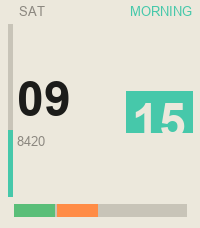
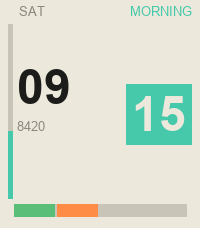
Prevent staggered layout elements from overlapping.
Clamp hours, minute chip, always-on, and detail card into non-colliding boxes and refresh store screenshots.

diff --git a/src/embeddedjs/main.js b/src/embeddedjs/main.js
@@ -587,8 +587,8 @@ function railGeometry() {
   const w = contentWidth();
   const h = contentHeight();
   const railH = 12;
-  const margin = IS_ROUND ? 36 : 14;
-  const y = h - railH - (IS_ROUND ? 24 : 12);
+  const margin = IS_ROUND ? 44 : 14;
+  const y = h - railH - (IS_ROUND ? 32 : 12);
   return { x: margin, y, width: w - margin * 2, height: railH };
 }
 
@@ -617,6 +617,17 @@ function livingAccentRGB(now) {
 
 function momentWord(now) {
   const hr = now.getHours();
+  /* Shorter labels on round so they stay inside the circular mask */
+  if (IS_ROUND) {
+    if (hr < 5) return "LATE";
+    if (hr < 7) return "DAWN";
+    if (hr < 11) return "AM";
+    if (hr < 13) return "NOON";
+    if (hr < 17) return "PM";
+    if (hr < 19) return "GOLD";
+    if (hr < 22) return "EVE";
+    return "NIGHT";
+  }
   if (hr < 5) return "LATE";
   if (hr < 7) return "DAWN";
   if (hr < 11) return "MORNING";
@@ -625,6 +636,10 @@ function momentWord(now) {
   if (hr < 19) return "GOLDEN";
   if (hr < 22) return "EVENING";
   return "NIGHT";
+}
+
+function detailCardHeight() {
+  return detailFont.height + smallFont.height + 16;
 }
 
 function drawPoster(now, withSeconds) {
@@ -636,27 +651,39 @@ function drawPoster(now, withSeconds) {
   const moment = momentWord(now);
   const dayPct = (now.getHours() * 60 + now.getMinutes()) / (24 * 60);
   const g = railGeometry();
-  const pad = IS_ROUND ? 24 : 8;
+  const pad = IS_ROUND ? 40 : 8;
+  const gap = 10;
 
-  /* Day stripe */
+  /* Day stripe — stop above the rail */
   const stripeW = IS_ROUND ? 4 : 5;
-  const stripeTop = IS_ROUND ? 32 : 24;
-  const stripeBot = g.y - 8;
-  const stripeSpan = stripeBot - stripeTop;
+  const stripeTop = IS_ROUND ? 56 : 24;
+  const stripeBot = g.y - 6;
+  const stripeSpan = Math.max(8, stripeBot - stripeTop);
   const stripeH = Math.max(16, (stripeSpan * dayPct) | 0);
   render.fillRectangle(railBg, pad, stripeTop, stripeW, stripeSpan);
   render.fillRectangle(live, pad, stripeBot - stripeH, stripeW, stripeH);
 
-  /* Compact header */
-  const headerY = IS_ROUND ? 18 : 4;
+  /* Header — inset on round so text clears the circular mask */
+  const headerY = IS_ROUND ? 44 : 4;
   const day = DAYS[now.getDay()].toUpperCase();
-  render.drawText(day, smallFont, dim, pad + stripeW + 6, headerY);
+  const dayX = pad + stripeW + 6;
+  const dayW = render.getTextWidth(day, smallFont);
   const momW = render.getTextWidth(moment, smallFont);
-  render.drawText(moment, smallFont, live, w - pad - momW, headerY);
+  let momX = w - pad - momW;
+  let momY = headerY;
+  if (momX < dayX + dayW + gap) {
+    /* Too tight for one row: put moment on the next line, right-aligned */
+    momX = w - pad - momW;
+    momY = headerY + smallFont.height + 2;
+  }
+  render.drawText(day, smallFont, dim, dayX, headerY);
+  render.drawText(moment, smallFont, live, momX, momY);
 
   /*
-   * Staggered time: big hours left, minute chip dropped right.
-   * Sized to fill the band between header and rail without a full-bleed plate.
+   * Staggered time with hard non-overlap:
+   * 1) Prefer chip to the right of hours with a clear gap.
+   * 2) If width is tight, place chip fully below hours (still right-aligned).
+   * 3) Always-on sits under the lower of the two, left-aligned, clear of the chip.
    */
   const chipPadX = 6;
   const chipPadY = 3;
@@ -664,28 +691,65 @@ function drawPoster(now, withSeconds) {
   const minW = render.getTextWidth(parts.minutes, timeFont);
   const chipW = minW + chipPadX * 2;
   const chipH = timeFont.height + chipPadY * 2;
-  const staggerY = IS_ROUND ? ((timeFont.height * 0.45) | 0) : ((timeFont.height * 0.55) | 0);
-  const metaH = always ? smallFont.height + 2 : 0;
-  const blockH = timeFont.height + staggerY + chipPadY + metaH;
+  /* Hide always-on while the detail card is up to avoid crowding */
+  const showAlways = always && detailIndex < 0;
+  const metaH = showAlways ? smallFont.height + gap : 0;
+  const detailReserve = detailIndex >= 0 ? detailCardHeight() + gap : 0;
 
-  const topBound = headerY + smallFont.height + 2;
-  const botBound = g.y - 6;
-  let hourY = topBound + (((botBound - topBound - blockH) / 2) | 0);
-  if (hourY < topBound) hourY = topBound;
-
+  const headerBottom = Math.max(headerY, momY) + smallFont.height;
+  const topBound = headerBottom + gap;
+  const botBound = g.y - gap - detailReserve;
   const hourX = pad + stripeW + 4;
-  let chipX = w - pad - chipW;
-  const chipY = hourY + staggerY;
-  /* Keep chip from colliding with hours on narrow faces */
-  if (chipX < hourX + hourW - 8)
-    chipX = Math.min(w - pad - chipW, hourX + hourW - 12);
+  const rightLimit = w - pad;
+
+  let chipX = rightLimit - chipW;
+  let chipY;
+  let hourY;
+  let staggerY = IS_ROUND ? ((timeFont.height * 0.35) | 0) : ((timeFont.height * 0.45) | 0);
+  const availH = Math.max(0, botBound - topBound);
+  const staggerBlockH = Math.max(timeFont.height, staggerY + chipH) + metaH;
+  const stackBlockH = timeFont.height + gap + chipH + metaH;
+
+  /* Side-by-side only when width AND height both clear — else stack */
+  const sideBySide =
+    hourX + hourW + gap + chipW <= rightLimit && staggerBlockH <= availH;
+  if (sideBySide) {
+    chipX = rightLimit - chipW;
+    hourY = topBound + Math.max(0, ((availH - staggerBlockH) / 2) | 0);
+    chipY = hourY + staggerY;
+  } else {
+    hourY = topBound + Math.max(0, ((availH - stackBlockH) / 2) | 0);
+    chipY = hourY + timeFont.height + gap;
+    chipX = rightLimit - chipW;
+  }
+
+  /* Absolute non-overlap: axis-aligned boxes must not intersect */
+  const hourRight = hourX + hourW;
+  const hourBottom = hourY + timeFont.height;
+  if (!(chipX >= hourRight + gap || chipY >= hourBottom + gap)) {
+    chipY = hourBottom + gap;
+    chipX = rightLimit - chipW;
+  }
 
   render.drawText(parts.hours, timeFont, fg, hourX, hourY);
   render.fillRectangle(live, chipX, chipY, chipW, chipH);
   render.drawText(parts.minutes, timeFont, bg, chipX + chipPadX, chipY + chipPadY);
 
-  if (always) {
-    render.drawText(always, smallFont, dim, hourX, Math.max(hourY + timeFont.height + 1, chipY + chipH + 2));
+  if (showAlways) {
+    const alwaysW = render.getTextWidth(always, smallFont);
+    /* Prefer the pocket under the hours when it stays clear of the chip */
+    let ay = hourY + timeFont.height + 4;
+    let ax = hourX;
+    const pocketOk =
+      ay + smallFont.height <= botBound &&
+      (ay >= chipY + chipH + gap || ax + alwaysW <= chipX - gap);
+    if (!pocketOk) {
+      ay = Math.max(hourY + timeFont.height, chipY + chipH) + 4;
+      ax = hourX;
+      if (ay + smallFont.height > botBound) return;
+      if (ay < chipY + chipH && ax + alwaysW > chipX - gap) return;
+    }
+    render.drawText(always, smallFont, dim, ax, ay);
   }
 }
 
@@ -699,7 +763,9 @@ function drawSignalRail(now) {
   if (!count) {
     const fill = Math.max(3, ((g.width * now.getMinutes()) / 60) | 0);
     render.fillRectangle(live, g.x, g.y, fill, g.height);
-    render.fillRectangle(fg, g.x + fill - 2, g.y - 2, 3, g.height + 4);
+    /* Marker stays inside the rail bounds */
+    const mx = Math.min(g.x + g.width - 3, Math.max(g.x, g.x + fill - 2));
+    render.fillRectangle(fg, mx, g.y, 3, g.height);
     return;
   }
 
@@ -711,7 +777,7 @@ function drawSignalRail(now) {
     const color = pipPalette[s.id] || live;
     render.fillRectangle(color, x, g.y, pipW, g.height);
     if (detailIndex === i) {
-      render.fillRectangle(fg, x, g.y - 4, pipW, 3);
+      render.fillRectangle(fg, x, g.y - 3, pipW, 2);
     }
     x += pipW + gap;
   }
@@ -721,13 +787,13 @@ function drawDetailCard() {
   if (detailIndex < 0 || detailIndex >= activeSignals.length) return;
   const s = activeSignals[detailIndex];
   const w = contentWidth();
-  const h = contentHeight();
-  const cardH = detailFont.height + smallFont.height + 12;
-  const y = (IS_ROUND ? h * 0.58 : h * 0.55) | 0;
+  const g = railGeometry();
+  const cardH = detailCardHeight();
+  const y = g.y - cardH - 4;
   const live = rgb(livingAccentRGB(lastDate));
 
-  render.fillRectangle(bg, 10, y - 2, w - 20, cardH + 4);
-  render.fillRectangle(live, 10, y - 2, w - 20, 3);
+  render.fillRectangle(bg, 10, y, w - 20, cardH);
+  render.fillRectangle(live, 10, y, w - 20, 3);
   render.drawText(s.title, detailFont, fg, 16, y + 6);
   render.drawText(s.detail, smallFont, dim, 16, y + 6 + detailFont.height + 2);
 }

diff --git a/scripts/generate_store_screenshots.py b/scripts/generate_store_screenshots.py
@@ -1,5 +1,5 @@
 #!/usr/bin/env python3
-"""Store screenshots — staggered hours + minute chip, tightened."""
+"""Store screenshots — staggered hours + minute chip, no overlap."""
 
 from __future__ import annotations
 
@@ -39,7 +39,23 @@ def living(hour: int):
     return (120, 140, 230)
 
 
-def moment(hour: int) -> str:
+def moment(hour: int, round_mask: bool = False) -> str:
+    if round_mask:
+        if hour < 5:
+            return "LATE"
+        if hour < 7:
+            return "DAWN"
+        if hour < 11:
+            return "AM"
+        if hour < 13:
+            return "NOON"
+        if hour < 17:
+            return "PM"
+        if hour < 19:
+            return "GOLD"
+        if hour < 22:
+            return "EVE"
+        return "NIGHT"
     if hour < 5:
         return "LATE"
     if hour < 7:
@@ -90,58 +106,98 @@ def draw_face(
     small_font = font(13)
     detail_font = font(15, bold=True)
 
-    pad = 24 if round_mask else 8
-    margin = 36 if round_mask else 14
+    pad = 40 if round_mask else 8
+    margin = 44 if round_mask else 14
     rail_h = 12
-    rail_y = h - rail_h - (24 if round_mask else 12)
+    rail_y = h - rail_h - (32 if round_mask else 12)
     rail_x = margin
     rail_w = w - margin * 2
 
+    gap = 10
     stripe_w = 4 if round_mask else 5
-    stripe_top = 32 if round_mask else 24
-    stripe_bot = rail_y - 8
+    stripe_top = 56 if round_mask else 24
+    stripe_bot = rail_y - 6
     day_pct = (hour * 60 + minute) / (24 * 60)
-    span = stripe_bot - stripe_top
+    span = max(8, stripe_bot - stripe_top)
     stripe_h = max(16, int(span * day_pct))
     draw.rectangle([pad, stripe_top, pad + stripe_w - 1, stripe_bot], fill=t["rail"])
     draw.rectangle([pad, stripe_bot - stripe_h, pad + stripe_w - 1, stripe_bot], fill=live)
 
-    header_y = 18 if round_mask else 4
-    draw.text((pad + stripe_w + 6, header_y), weekday, font=small_font, fill=t["dim"])
-    word = moment(hour)
+    header_y = 44 if round_mask else 4
+    day_x = pad + stripe_w + 6
+    word = moment(hour, round_mask)
     wb = draw.textbbox((0, 0), word, font=small_font)
-    draw.text((w - pad - (wb[2] - wb[0]), header_y), word, font=small_font, fill=live)
+    mom_w = wb[2] - wb[0]
+    day_bb = draw.textbbox((0, 0), weekday, font=small_font)
+    day_w = day_bb[2] - day_bb[0]
+    mom_x = w - pad - mom_w
+    mom_y = header_y
+    if mom_x < day_x + day_w + gap:
+        mom_x = w - pad - mom_w
+        mom_y = header_y + 14
+    draw.text((day_x, header_y), weekday, font=small_font, fill=t["dim"])
+    draw.text((mom_x, mom_y), word, font=small_font, fill=live)
 
     hours = f"{hour:02d}"
     mins = f"{minute:02d}"
+    ascent, descent = time_font.getmetrics()
+    th = ascent + descent
     hb = draw.textbbox((0, 0), hours, font=time_font)
     mb = draw.textbbox((0, 0), mins, font=time_font)
     hour_w = hb[2] - hb[0]
     min_w = mb[2] - mb[0]
-    th = hb[3] - hb[1]
     chip_pad_x, chip_pad_y = 6, 3
     chip_w = min_w + chip_pad_x * 2
     chip_h = th + chip_pad_y * 2
-    stagger = int(th * (0.45 if round_mask else 0.55))
-    meta_h = 16 if always_on else 0
-    block_h = th + stagger + chip_pad_y + meta_h
+    show_always = bool(always_on) and not detail
+    meta_h = 16 if show_always else 0
+    detail_reserve = 40 + gap if detail else 0
 
-    top_bound = header_y + 16
-    bot_bound = rail_y - 6
-    hour_y = top_bound + max(0, (bot_bound - top_bound - block_h) // 2)
+    top_bound = max(header_y, mom_y) + 14 + gap
+    bot_bound = rail_y - gap - detail_reserve
     hour_x = pad + stripe_w + 4
-    chip_x = w - pad - chip_w
-    chip_y = hour_y + stagger
-    if chip_x < hour_x + hour_w - 8:
-        chip_x = min(w - pad - chip_w, hour_x + hour_w - 12)
+    right_limit = w - pad
+    stagger = int(th * (0.35 if round_mask else 0.45))
+
+    avail_h = max(0, bot_bound - top_bound)
+    stagger_block_h = max(th, stagger + chip_h) + meta_h
+    stack_block_h = th + gap + chip_h + meta_h
+    side_by_side = (
+        hour_x + hour_w + gap + chip_w <= right_limit and stagger_block_h <= avail_h
+    )
+    if side_by_side:
+        chip_x = right_limit - chip_w
+        hour_y = top_bound + max(0, (avail_h - stagger_block_h) // 2)
+        chip_y = hour_y + stagger
+    else:
+        hour_y = top_bound + max(0, (avail_h - stack_block_h) // 2)
+        chip_y = hour_y + th + gap
+        chip_x = right_limit - chip_w
+
+    hour_right = hour_x + hour_w
+    hour_bottom = hour_y + th
+    if not (chip_x >= hour_right + gap or chip_y >= hour_bottom + gap):
+        chip_y = hour_bottom + gap
+        chip_x = right_limit - chip_w
 
     draw.text((hour_x, hour_y), hours, font=time_font, fill=t["fg"])
-    draw.rectangle([chip_x, chip_y, chip_x + chip_w, chip_y + chip_h], fill=live)
+    draw.rectangle([chip_x, chip_y, chip_x + chip_w - 1, chip_y + chip_h - 1], fill=live)
     draw.text((chip_x + chip_pad_x, chip_y + chip_pad_y), mins, font=time_font, fill=t["bg"])
 
-    if always_on:
-        ay = max(hour_y + th + 1, chip_y + chip_h + 2)
-        draw.text((hour_x, ay), always_on, font=small_font, fill=t["dim"])
+    if show_always:
+        aw = draw.textbbox((0, 0), always_on, font=small_font)
+        always_w = aw[2] - aw[0]
+        ay = hour_y + th + 4
+        ax = hour_x
+        pocket_ok = ay + 14 <= bot_bound and (
+            ay >= chip_y + chip_h + gap or ax + always_w <= chip_x - gap
+        )
+        if not pocket_ok:
+            ay = max(hour_y + th, chip_y + chip_h) + 4
+            if ay + 14 > bot_bound or (ay < chip_y + chip_h and ax + always_w > chip_x - gap):
+                ay = None
+        if ay is not None:
+            draw.text((ax, ay), always_on, font=small_font, fill=t["dim"])
 
     draw.rectangle([rail_x, rail_y, rail_x + rail_w, rail_y + rail_h], fill=t["rail"])
     if pips:
@@ -151,20 +207,22 @@ def draw_face(
         for i, name in enumerate(pips[:4]):
             draw.rectangle([x, rail_y, x + pip_w, rail_y + rail_h], fill=PIP.get(name, live))
             if detail and i == 0:
-                draw.rectangle([x, rail_y - 4, x + pip_w, rail_y - 1], fill=t["fg"])
+                draw.rectangle([x, rail_y - 3, x + pip_w, rail_y - 1], fill=t["fg"])
             x += pip_w + gap_p
     else:
         fill = max(3, int(rail_w * minute / 60))
         draw.rectangle([rail_x, rail_y, rail_x + fill, rail_y + rail_h], fill=live)
-        draw.rectangle([rail_x + fill - 2, rail_y - 2, rail_x + fill + 1, rail_y + rail_h + 2], fill=t["fg"])
+        mx = min(rail_x + rail_w - 3, max(rail_x, rail_x + fill - 2))
+        draw.rectangle([mx, rail_y, mx + 3, rail_y + rail_h], fill=t["fg"])
 
     if detail:
         title, line = detail
-        card_y = int(h * 0.55)
-        draw.rectangle([8, card_y - 2, w - 8, card_y + 38], fill=t["bg"])
-        draw.rectangle([8, card_y - 2, w - 8, card_y + 1], fill=live)
-        draw.text((14, card_y + 4), title, font=detail_font, fill=t["fg"])
-        draw.text((14, card_y + 22), line, font=small_font, fill=t["dim"])
+        card_h = 40
+        card_y = rail_y - card_h - 4
+        draw.rectangle([10, card_y, w - 10, card_y + card_h], fill=t["bg"])
+        draw.rectangle([10, card_y, w - 10, card_y + 3], fill=live)
+        draw.text((16, card_y + 6), title, font=detail_font, fill=t["fg"])
+        draw.text((16, card_y + 24), line, font=small_font, fill=t["dim"])
 
     if round_mask:
         mask = Image.new("L", size, 0)
